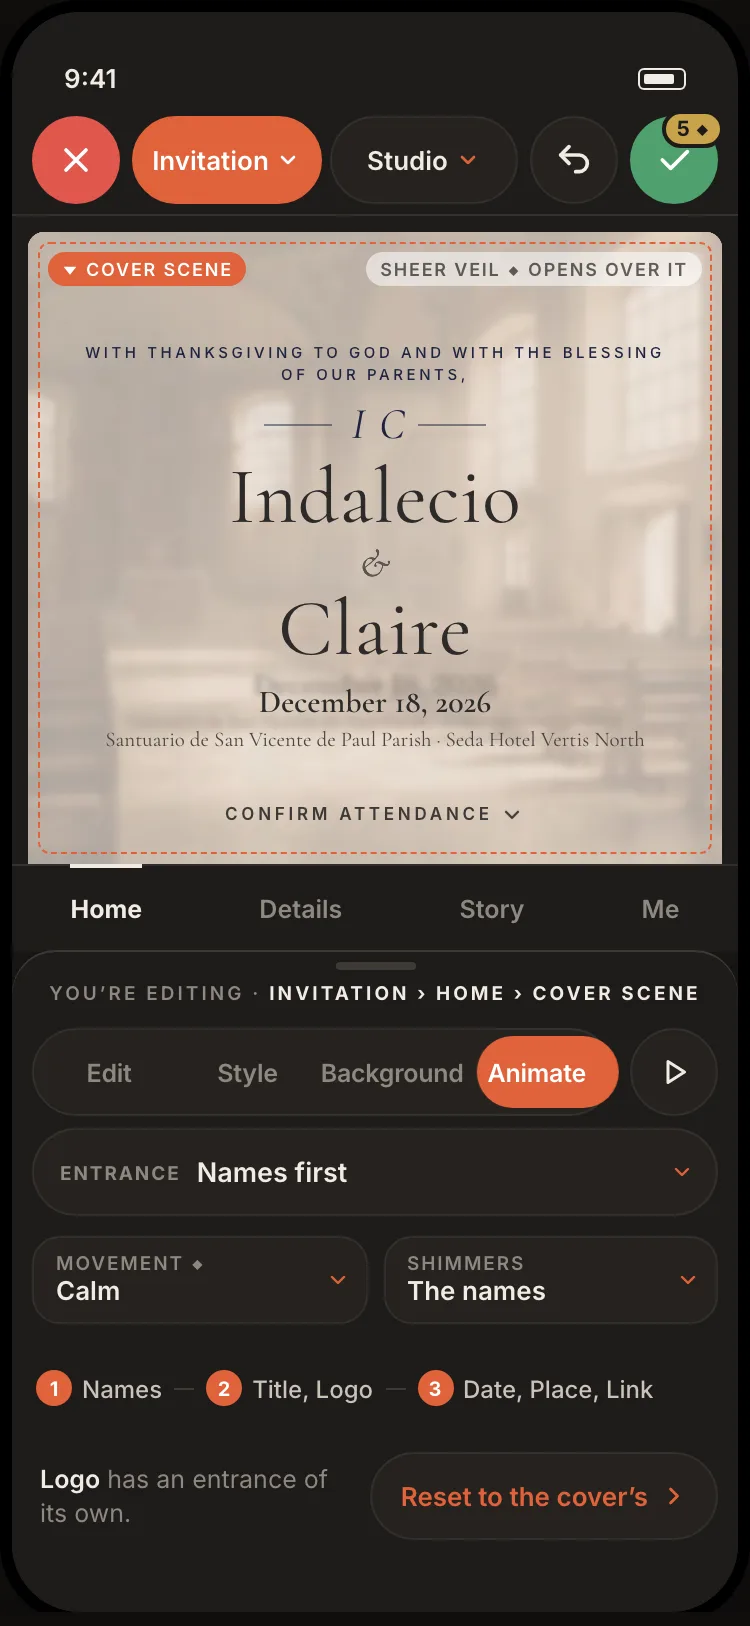
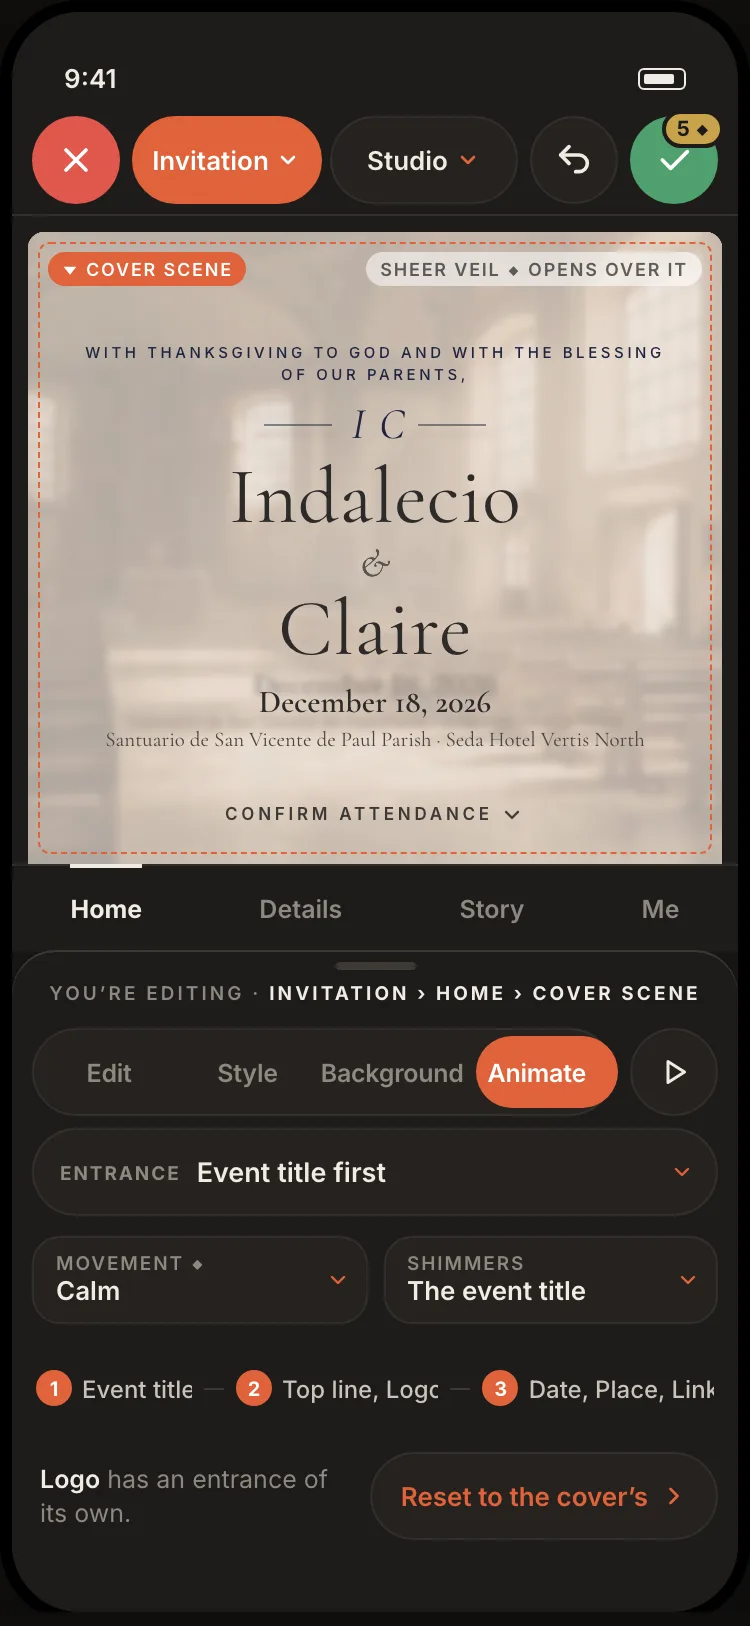
prototype: Cover Scene tools — labels follow today's ruling (names = Event title, the line above = Top line); re-shot

diff --git a/prototypes/cover_scene_edit_animate_2026-10-16.html b/prototypes/cover_scene_edit_animate_2026-10-16.html
@@ -26,6 +26,7 @@
       be live text that hides and enters.
 
   THE COVER'S REAL LINES on cale-ice today (Invitation › Home, as guests see it, top to bottom):
+    (names per the owner's ruling of 2026-10-16: the couple's names are the EVENT TITLE; the small line above them is the TOP LINE — labels only)
     1 Title (hero el `eyebrow`)  "WITH THANKSGIVING TO GOD AND WITH THE BLESSING OF OUR PARENTS,"
     2 Logo  (`mark`)             the IC monogram between two rules
     3 Names (`names` + `joiner`) "Indalecio & Claire"
@@ -409,7 +410,7 @@ table.lines th{font:700 10.5px var(--sans);letter-spacing:.1em;text-transform:up
     <div class="walk">
       <h2 style="font-size:11.5px;letter-spacing:.14em;text-transform:uppercase;color:var(--mute);font-weight:700;margin:0 0 8px">Walk it</h2>
       <ol>
-        <li><span class="k">Edit</span> The cover's lines, top to bottom, two to a row, each with <b>the house switch</b>. Switch <b>Title</b> off — it <b>leaves the cover at once</b>. <b>Names</b> has no switch ("always"); a tap says why. Tap a line's <b>name</b> → that word is picked, with its own tools.</li>
+        <li><span class="k">Edit</span> The cover's lines, top to bottom, two to a row, each with <b>the house switch</b>. Switch <b>Top line</b> off — it <b>leaves the cover at once</b>. <b>Event title</b> (the names) has no switch ("always"); a tap says why. Tap a line's <b>name</b> → that word is picked, with its own tools.</li>
         <li><span class="k">Style</span> Not grey any more: it is the <b>Opening</b> — the Reveal's own cards (None free · Sheer veil ◆ · the rest after the envelope proof), <b>folded in from the tile</b> that used to float above the cover. The tile is gone; the cover's corner names the opening.</li>
         <li><span class="k">Animate</span> <b>Entrance ▾</b> — one dropdown of whole-cover entrances, each setting every word's Build in in order (three beats = the shipped Delay steps None · Short · Long). <b>Movement ◆</b> = the feel (Quick · Calm · Cinematic). Row 3 draws the beats. Row 4: who is on their own, and <b>Reset to the cover's entrance</b>.</li>
         <li><span class="k">▶</span> Tap: the <b>closed veil with no words</b> → the unveil → every line entering in its beat. <b>Hold ▶</b>: the whole page as a guest — the bars slide away, the veil waits for <b>your</b> tap, "Exit preview" brings everything back.</li>
@@ -435,9 +436,9 @@ table.lines th{font:700 10.5px var(--sans);letter-spacing:.1em;text-transform:up
   <div class="notes">
     <h4>The cover's real line list (cale-ice, live, 2026-10-16)</h4>
     <table class="lines"><tr><th>#</th><th>Line (Maker name)</th><th>hero el</th><th>What it says</th><th>Switch</th></tr>
-      <tr><td>1</td><td>Title</td><td><code>eyebrow</code></td><td>WITH THANKSGIVING TO GOD AND WITH THE BLESSING OF OUR PARENTS,</td><td>yes</td></tr>
+      <tr><td>1</td><td>Top line <i>(was "Title" — renamed by the owner today)</i></td><td><code>eyebrow</code></td><td>WITH THANKSGIVING TO GOD AND WITH THE BLESSING OF OUR PARENTS,</td><td>yes</td></tr>
       <tr><td>2</td><td>Logo</td><td><code>mark</code></td><td>the IC monogram between two rules</td><td>yes (the Studio switch "Show the logo on Cover and QR" is the same fact — one value)</td></tr>
-      <tr><td>3</td><td>Names</td><td><code>names</code> + <code>joiner</code></td><td>Indalecio &amp; Claire</td><td><b>none — always shown</b></td></tr>
+      <tr><td>3</td><td>Event title <i>(the names — the owner's word for them, today)</i></td><td><code>names</code> + <code>joiner</code></td><td>Indalecio &amp; Claire</td><td><b>none — always shown</b></td></tr>
       <tr><td>4</td><td>Date</td><td><code>date</code></td><td>December 18, 2026</td><td>yes</td></tr>
       <tr><td>5</td><td>Place</td><td><code>venue</code></td><td>Santuario de San Vicente de Paul Parish · Seda Hotel Vertis North</td><td>yes</td></tr>
       <tr><td>6</td><td>Link <i>(new on this shape)</i></td><td><code>link</code></td><td>Confirm attendance ⌄ — the shipped Link, pointed at Reply; at the foot; reads the guest's own reply once given</td><td>yes</td></tr>
@@ -446,7 +447,7 @@ table.lines th{font:700 10.5px var(--sans);letter-spacing:.1em;text-transform:up
 
     <h4>Decisions made here (the owner may overrule any)</h4>
     <ol>
-      <li><b>Names cannot be hidden.</b> The names are what the cover IS: the loading screen's cover band draws them (ruling 2026-10-16), the home card and the poster read them, and "names wait for their real entrance" was ruled for them this morning. A cover with no names is a photo, not an invitation. So Names has no switch; a tap on its place says <span class="q">"The names are the cover — they are always shown."</span> Builder note: today's model allows <code>hidden</code> on <code>names</code> (TEXT_FIELDS) — the sanitiser should drop it for <code>names</code> so the two doors agree. Every other line hides; the <b>Logo</b> switch is the same value as Studio's "Show the logo on Cover and QR" (owner 2026-10-15 (4)) — one fact, never two switches.</li>
+      <li><b>The event title (the names) cannot be hidden.</b> The names are what the cover IS: the loading screen's cover band draws them (ruling 2026-10-16), the home card and the poster read them, and "names wait for their real entrance" was ruled for them this morning. A cover with no names is a photo, not an invitation. So Names has no switch; a tap on its place says <span class="q">"The names are the cover — they are always shown."</span> Builder note: today's model allows <code>hidden</code> on <code>names</code> (TEXT_FIELDS) — the sanitiser should drop it for <code>names</code> so the two doors agree. Every other line hides; the <b>Logo</b> switch is the same value as Studio's "Show the logo on Cover and QR" (owner 2026-10-15 (4)) — one fact, never two switches.</li>
       <li><b>A hidden line leaves the cover at once</b> (the owner's words), and it comes back from this list — so the old "ghosted on the canvas" drawing of a hidden part (the inspector's frame B) is no longer needed on the cover: the list is where you see what is hidden. Guests never see it (<code>hubElementHidden</code>, the one rule).</li>
       <li><b>Style stays — and gets a job: the Opening.</b> The four tabs stay on every part (owner 2026-10-10, "make Edit | Style | Background | Animate consistent"), so removing Style for the group was never on. With the veil folded into the cover, the Reveal's own tool — a strip of phone-shaped cards (None · Sheer veil ◆ …, the 2026-10-08 fault), Extras ▾ — is exactly a Style tab, already built (<code>MakerLookPages.reveal</code>). So Cover Scene › Style = that picker, unchanged, with "Opening" as its name. <i>Alternative, if the owner prefers:</i> an <b>Opening ▾</b> dropdown as Animate's first row (then Style goes back to grey). The cards are why Style won: an opening is something you look at.</li>
       <li><b>The tile goes.</b> No "Opens once, over the cover" picture above the cover: the opening is picked in Cover Scene › Style and named in the cover's corner ("Sheer veil ◆ opens over it"). Per-stage Shown | Hidden becomes picking None on that stage's Cover Scene — each stage that leads with the cover (Save the Date · Invitation › Welcome · The Day › Live, exactly <code>revealStageOf</code>) has its own. ▶ on the Cover Scene plays opening → unveil → entrance.</li>
@@ -482,9 +483,9 @@ table.lines th{font:700 10.5px var(--sans);letter-spacing:.1em;text-transform:up
 <script>
 /* ───────── the cover's words — cale-ice, live, 2026-10-16 (read-only public page) ───────── */
 const WORDS_ALL=[
-  {k:'ename',el:'eyebrow',name:'Title',text:'With thanksgiving to God and with the blessing of our parents,',card:true,plain:true},
+  {k:'ename',el:'eyebrow',name:'Top line',text:'With thanksgiving to God and with the blessing of our parents,',card:true,plain:true},
   {k:'logo',el:'mark',name:'Logo',text:'IC',card:true,plain:true},
-  {k:'names',el:'names',name:'Names',text:'Indalecio & Claire',card:true,plain:true,always:true},
+  {k:'names',el:'names',name:'Event title',text:'Indalecio & Claire',card:true,plain:true,always:true},
   {k:'heroline',el:'line',name:'Invite line',text:'Request the honor of your presence as we unite in the Sacrament of Holy Matrimony',card:true,plain:false},
   {k:'date',el:'date',name:'Date',text:'December 18, 2026',card:true,plain:true},
   {k:'time',el:'time',name:'Time',text:'Ceremony 2:30 PM',card:true,plain:false},
@@ -503,9 +504,9 @@ const DELAY_N={none:'None',short:'Short',long:'Long'};
 const ENTRANCES=[
   {k:'theme',n:'The theme’s own',sub:'Each word as the look plays it today — nothing stored',
    set:{eyebrow:{fx:{fade:1},d:'none'},mark:{fx:{fade:1},d:'none'},names:{fx:{fade:1,move:'below'},d:'none'},line:{fx:{fade:1},d:'short'},date:{fx:{fade:1},d:'short'},time:{fx:{fade:1},d:'short'},venue:{fx:{fade:1},d:'short'},link:{fx:{fade:1},d:'long'}}},
-  {k:'names',n:'Names first',sub:'The names rise alone, then the top, then the day',
+  {k:'names',n:'Event title first',sub:'The names rise alone, then the top line and the mark, then the day',
    set:{names:{fx:{fade:1,move:'below'},d:'none'},mark:{fx:{fade:1},d:'short'},eyebrow:{fx:{fade:1},d:'short'},line:{fx:{fade:1,move:'below'},d:'long'},date:{fx:{fade:1,move:'below'},d:'long'},time:{fx:{fade:1,move:'below'},d:'long'},venue:{fx:{fade:1,move:'below'},d:'long'},link:{fx:{fade:1},d:'long'}}},
-  {k:'top',n:'Top to bottom',sub:'Title and mark, then the names, then the day',
+  {k:'top',n:'Top to bottom',sub:'Top line and mark, then the names, then the day',
    set:{eyebrow:{fx:{fade:1},d:'none'},mark:{fx:{fade:1},d:'none'},names:{fx:{fade:1,move:'below'},d:'short'},line:{fx:{fade:1,move:'below'},d:'long'},date:{fx:{fade:1,move:'below'},d:'long'},time:{fx:{fade:1,move:'below'},d:'long'},venue:{fx:{fade:1,move:'below'},d:'long'},link:{fx:{fade:1,move:'below'},d:'long'}}},
   {k:'once',n:'All together',sub:'Every word fades in at once',
    set:{eyebrow:{fx:{fade:1},d:'none'},mark:{fx:{fade:1},d:'none'},names:{fx:{fade:1},d:'none'},line:{fx:{fade:1},d:'none'},date:{fx:{fade:1},d:'none'},time:{fx:{fade:1},d:'none'},venue:{fx:{fade:1},d:'none'},link:{fx:{fade:1},d:'none'}}},
@@ -539,7 +540,7 @@ function esc(s){return String(s).replace(/&/g,'&amp;').replace(/</g,'&lt;')}
 /* ✨ Action's choices for a text part — the shipped Still · Drift + the new SHIMMER (a moving lighter band of the part's own hue) */
 const ACTIONS=[{k:'still',n:'Still',sub:'Nothing while on screen'},{k:'drift',n:'Drift',sub:'A slow breath of movement'},{k:'shimmer',n:'Shimmer',sub:'A lighter band of its own colour passes across it, every 5 s — still under reduced motion'}];
 const BANDS=[{k:'hue',n:'Same hue',sub:'Your colour, lighter'},{k:'gold',n:'Gold',sub:'The theme’s gold'}];
-const SHIMMER_ON=[{k:'none',n:'Nothing'},{k:'names',n:'The names'},{k:'ename',n:'The title'},{k:'both',n:'Names and title'}];
+const SHIMMER_ON=[{k:'none',n:'Nothing'},{k:'names',n:'The event title'},{k:'ename',n:'The top line'},{k:'both',n:'Both'}];
 const state={
   sel:'group', tool:'edit', shape:'plain',
   shown:{}, entrance:'theme', feel:'calm', opening:'veil-sheer',
